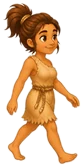
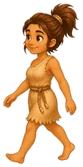
Epochia 31: Frauen laufen nicht mehr rückwärts (Bild war gespiegelt)
Claude-Session: https://claude.ai/code/session_01W1n1hddeeTrZebcCZm91Sx

diff --git a/neu/index.html b/neu/index.html
@@ -3,7 +3,7 @@
 <head>
   <meta charset="UTF-8">
   <meta name="viewport" content="width=device-width, initial-scale=1, maximum-scale=1, user-scalable=no, viewport-fit=cover">
-  <meta name="app-version" content="30">
+  <meta name="app-version" content="31">
   <meta name="theme-color" content="#3d7a2a">
   <meta name="apple-mobile-web-app-capable" content="yes">
   <meta name="mobile-web-app-capable" content="yes">

diff --git a/neu/js/daten.js b/neu/js/daten.js
@@ -2,7 +2,7 @@
 // Epochia – alle Spieldaten (Zahlen zum Feinjustieren stehen hier oben, die Logik liest nur daraus).
 // Pläne: docs/konzept-neu.md und docs/epoche-1-steinzeit.md
 
-const APP_VERSION = 30;
+const APP_VERSION = 31;
 
 const CONFIG = {
   mapSize: 128,           // Felder je Seite (bis Version 21: 64 – alte Karten liegen jetzt in der Mitte)

diff --git a/neu/service-worker.js b/neu/service-worker.js
@@ -1,6 +1,6 @@
 // Epochia – offline spielen. Bei Änderungen die Versionsnummer erhöhen (gleiche Nummer wie
 // APP_VERSION in js/daten.js und <meta name="app-version"> in index.html).
-const CACHE = 'epochia-v30';
+const CACHE = 'epochia-v31';
 const ASSETS = [
   './',
   'index.html',

diff --git a/docs/wuensche.md b/docs/wuensche.md
@@ -22,6 +22,7 @@ Stichworte reichen, z. B. „- Farm zeigt falsche Arbeiterzahl nach dem Verschie
 ## Erledigt
 
 <!-- Claude verschiebt erledigte Punkte hierher, mit Datum und Version -->
+- 2026-10-31, Epochia Version 31 – Fehler: Frauen liefen rückwärts (Bild beim Einbauen falsch gespiegelt) – behoben.
 - 2026-10-31, Epochia Version 30 – Fehlt einem Gebäude eine Ware, zeigt die Blase das Warenbild mit rotem „!“ (statt eines
   Emojis), und die Info sagt, was fehlt und woher es kommt (z. B. „Es fehlt Felle – kommt von: Jägerlager, Mammutjagd“).
 - 2026-10-31, Epochia Version 30 – Menschenbilder (Canva): Jäger laufen mit Speer, Steinsammler tragen den Stein nur auf dem Rückweg,
